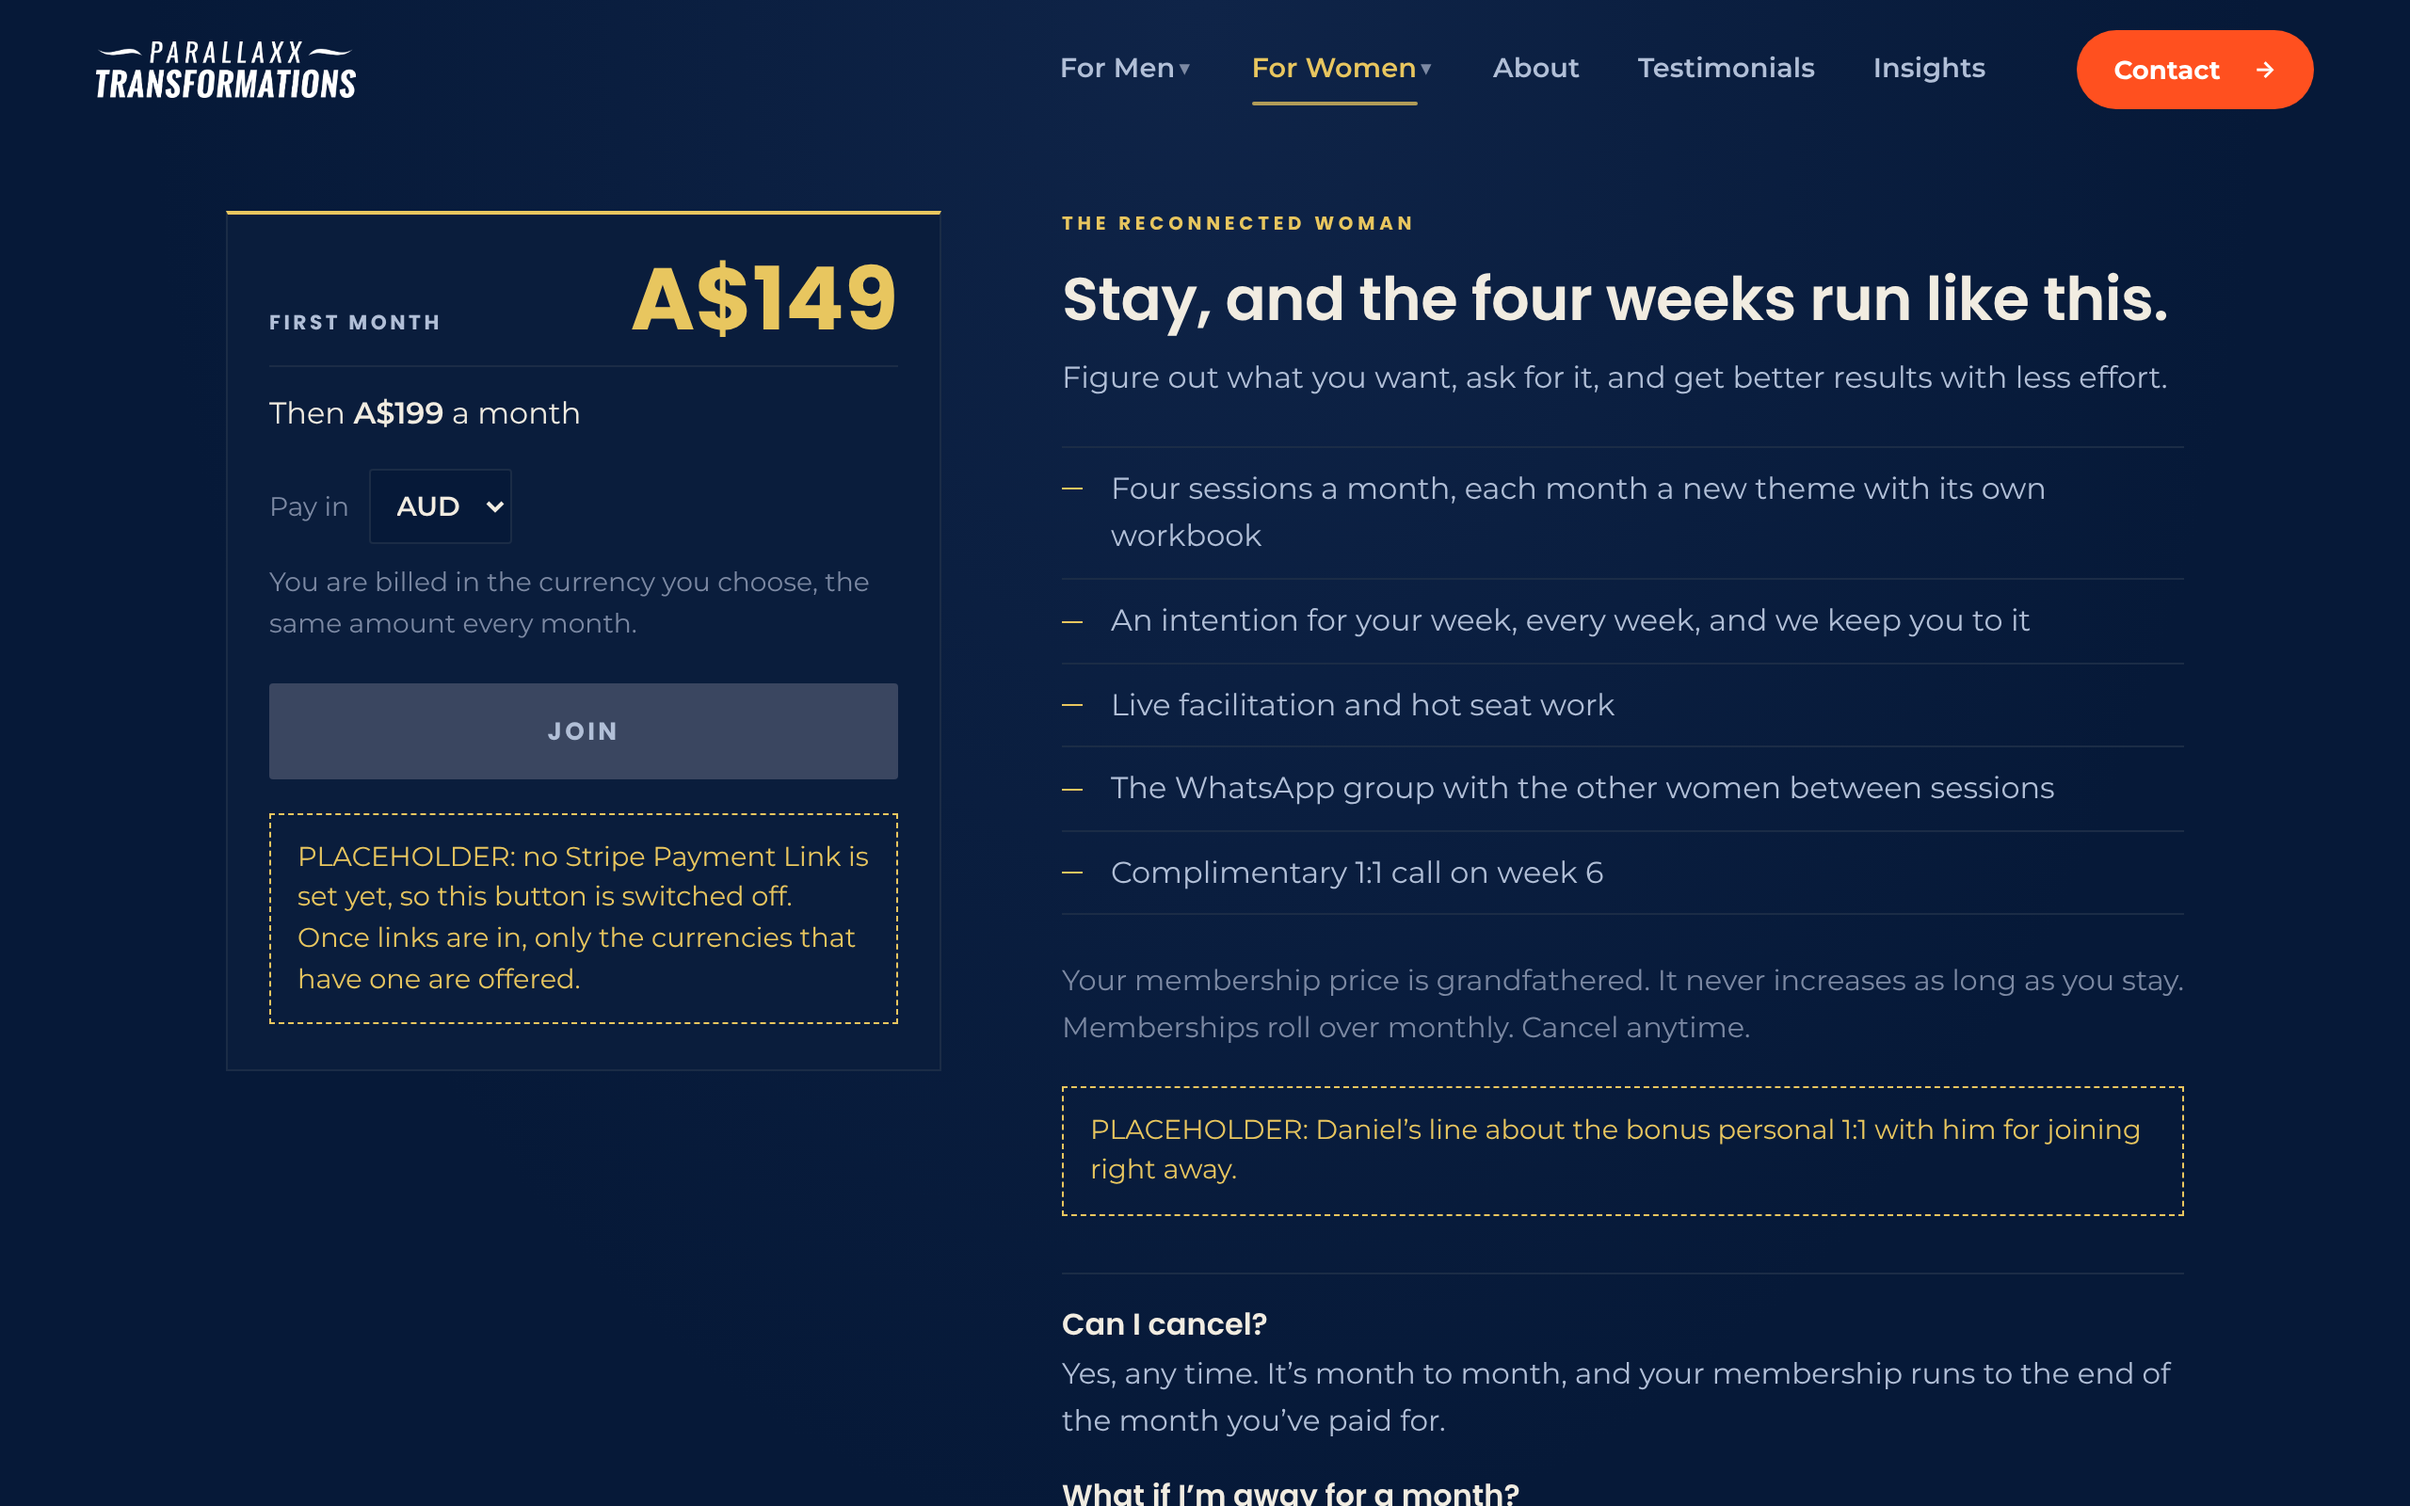
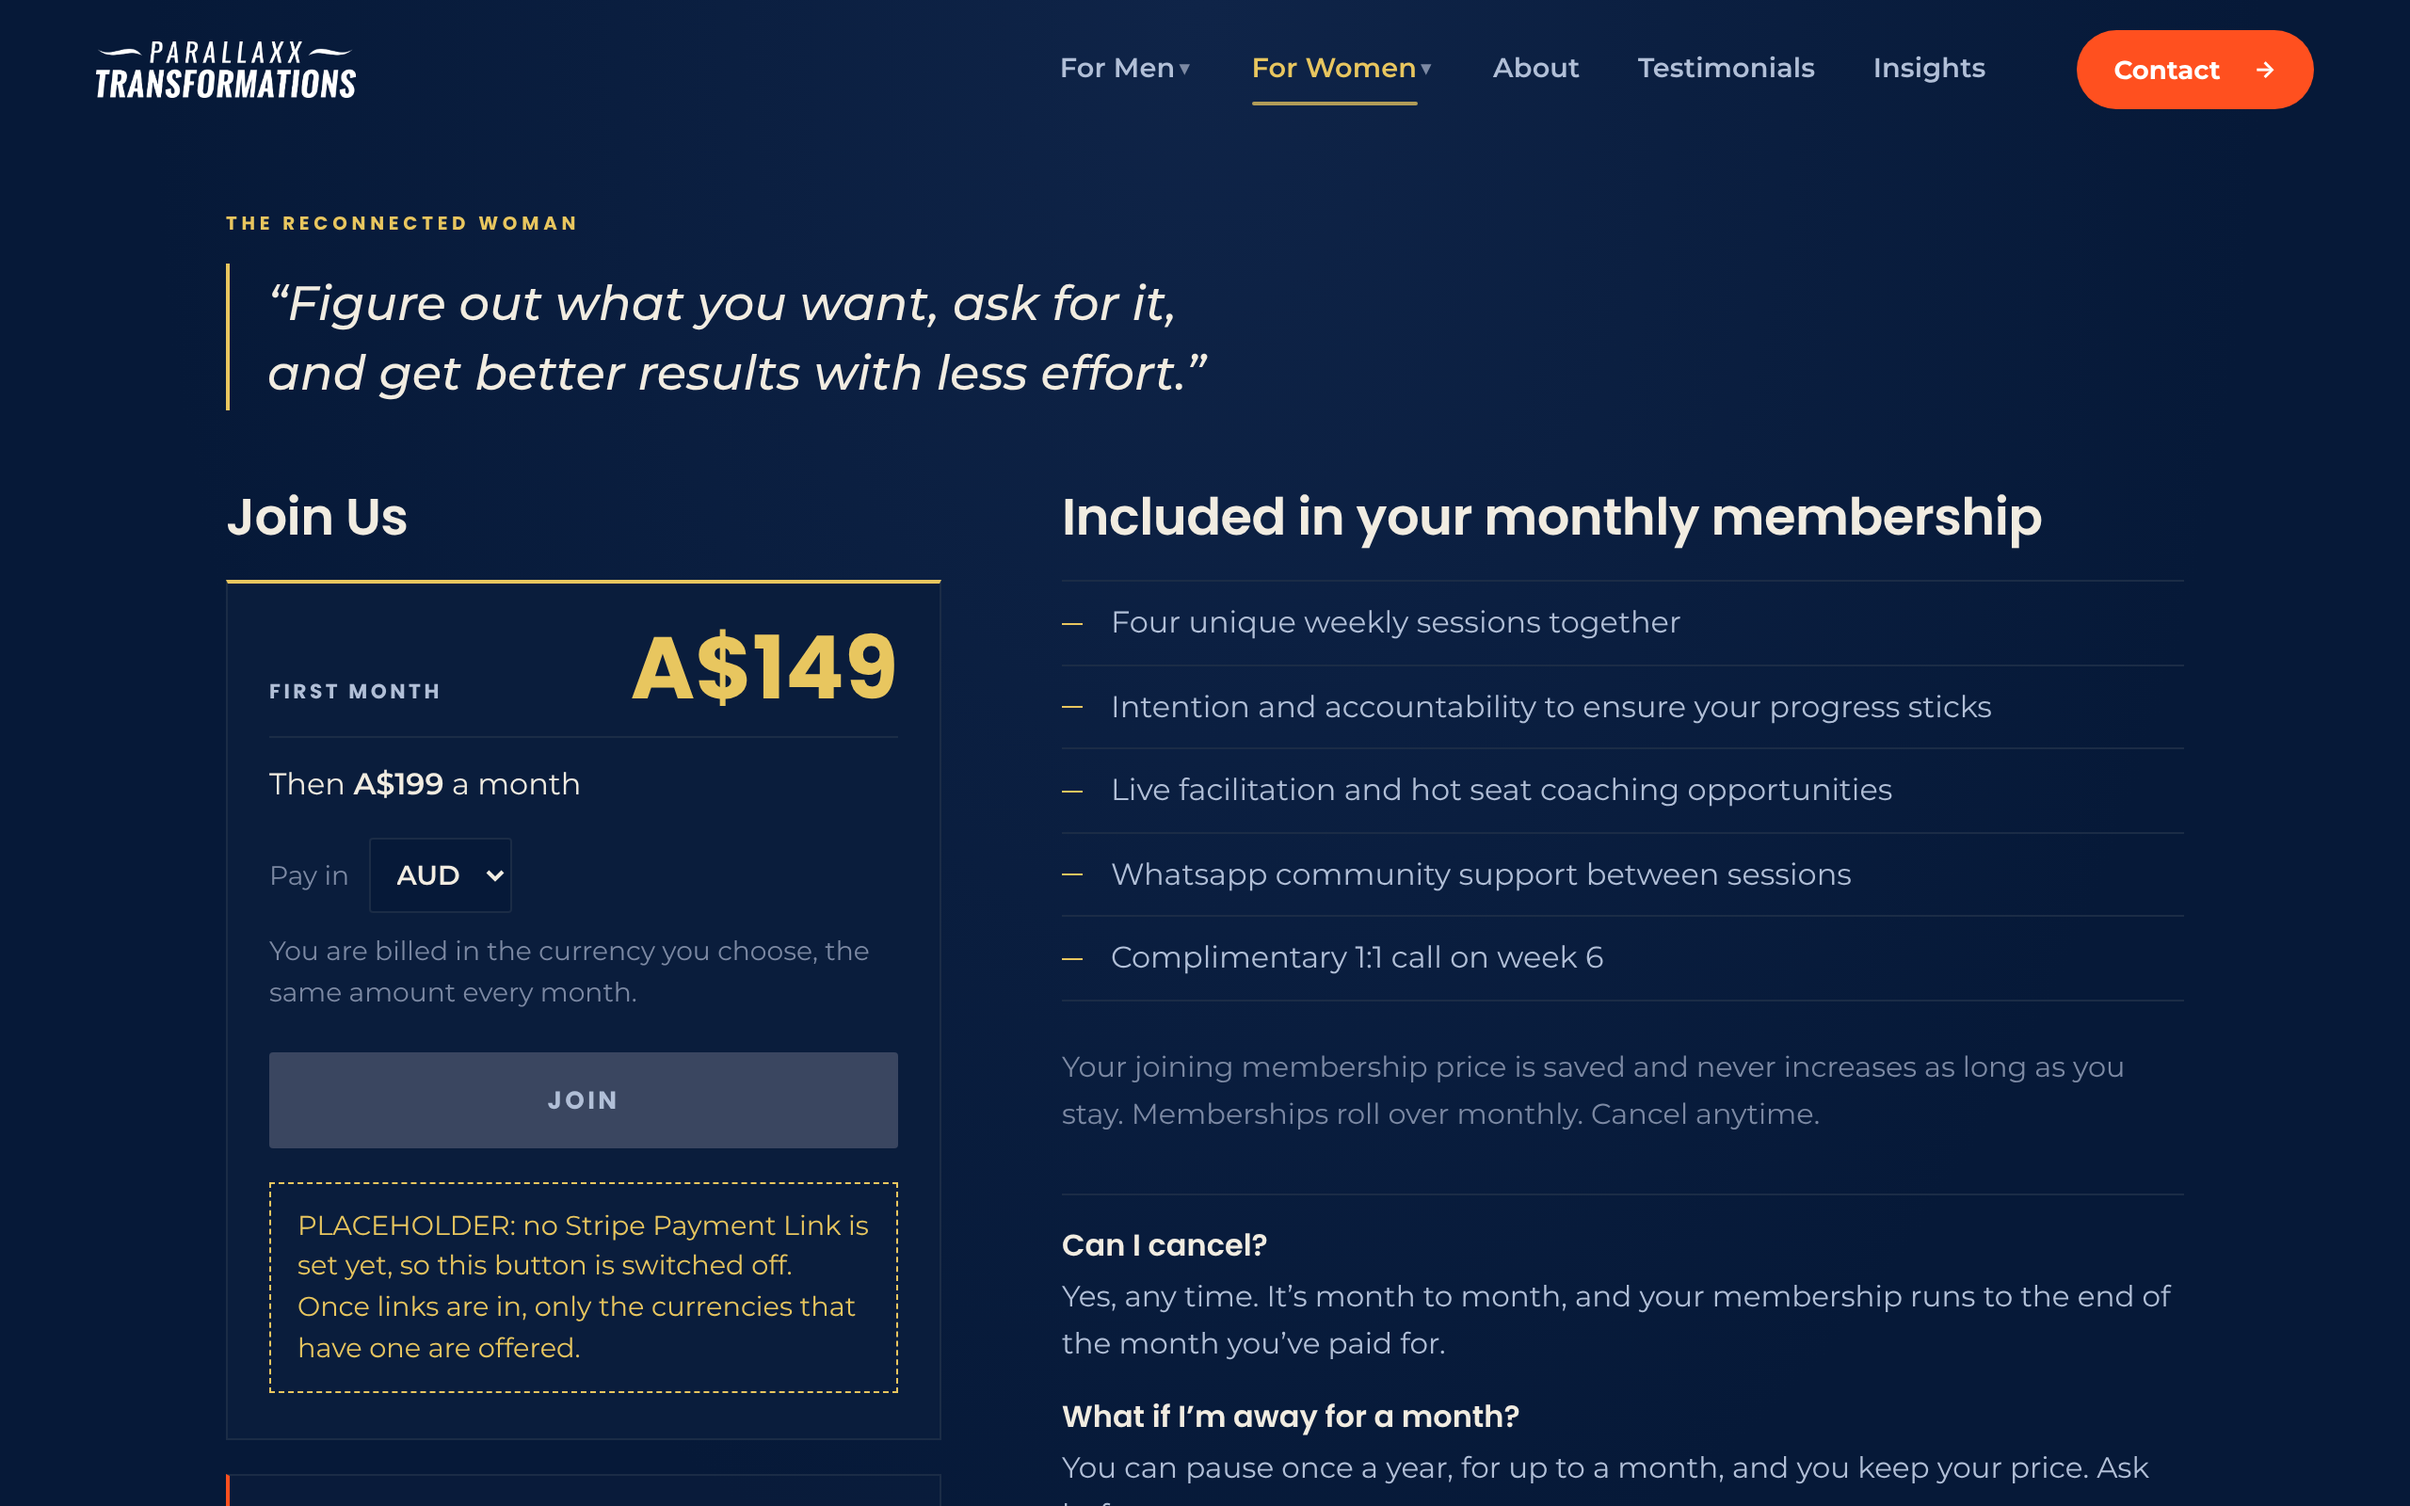
Join page: Daniel's wording and layout, 23 Nov, plus South African Rand
Quote across the top; 'Join Us' above the payment column; Action Taker Bonus
under it; 'Included in your monthly membership' with his five lines; his
terms sentence. ZAR added with a placeholder link. Not published.

Claude-Session: https://claude.ai/code/session_01CeCNG1XNZUuvNZJZtKDaWa

diff --git a/migration/rw_join.py b/migration/rw_join.py
@@ -32,37 +32,47 @@ PRICES = [
     ("NZD", "NZ$",       239,    179,  "PLACEHOLDER_STRIPE_LINK_NZD"),
     ("SGD", "S$",        175,    129,  "PLACEHOLDER_STRIPE_LINK_SGD"),
     ("CHF", "CHF ",      109,     85,  "PLACEHOLDER_STRIPE_LINK_CHF"),
+    ("ZAR", "R",        2299,   1699,  "PLACEHOLDER_STRIPE_LINK_ZAR"),
 ]
 
 # Which currency a browser's country gets by default. Anywhere not listed,
 # and any currency whose link is not set yet, gets EUR.
 COUNTRY_CURRENCY = {
     "AU": "AUD", "US": "USD", "GB": "GBP", "CA": "CAD",
-    "NZ": "NZD", "SG": "SGD", "CH": "CHF", "LI": "CHF",
+    "NZ": "NZD", "SG": "SGD", "CH": "CHF", "LI": "CHF", "ZA": "ZAR",
 }
 
 # ── WORDING ─────────────────────────────────────────────────────────────
-# Everything in WORDS is Daniel's, lifted word for word from the Reconnected
-# Woman page (reconnected-woman-v10-preview.html). Anything he has not
-# written is in PLACEHOLDERS, shown on the page inside a dashed box, and the
-# live site refuses to build while one is left. Set a placeholder to "" to
-# drop that line from the page.
+# All of it is Daniel's, as he gave it on 23 Nov 2026 (the quote and the two
+# questions are from the Reconnected Woman page). Two spellings were his
+# typing put right, and he can reverse either: "monthly membership" (he typed
+# "month membership") and "accountability" (he typed "accountably").
+#
+# Anything he has NOT written goes in PLACEHOLDERS, is shown on the page in a
+# dashed box, and stops the live site building while it is left. There are
+# none at the moment.
 WORDS = dict(
     eyebrow="The Reconnected Woman",
-    heading="Stay, and the four weeks run like this.",
-    lede="Figure out what you want, ask for it, and get better results with less effort.",
+    # Across the top, above both columns, set as a quotation: the reminder of
+    # why she is joining.
+    quote="Figure out what you want, ask for it, and get better results with less effort.",
+    # The page's one h1, above the payment column.
+    heading="Join Us",
+    included_heading="Included in your monthly membership",
     includes=[
-        "Four sessions a month, each month a new theme with its own workbook",
-        "An intention for your week, every week, and we keep you to it",
-        "Live facilitation and hot seat work",
-        "The WhatsApp group with the other women between sessions",
+        "Four unique weekly sessions together",
+        "Intention and accountability to ensure your progress sticks",
+        "Live facilitation and hot seat coaching opportunities",
+        "Whatsapp community support between sessions",
         "Complimentary 1:1 call on week 6",
     ],
-    # His sentence on the page opens "€119 a month, and your membership price
-    # is grandfathered." The amount is in the price block here, so it starts
-    # at "Your membership price".
-    terms="Your membership price is grandfathered. It never increases as long as you "
+    terms="Your joining membership price is saved and never increases as long as you "
           "stay. Memberships roll over monthly. Cancel anytime.",
+    # Under the payment column. Set bonus_heading to "" to drop the whole box.
+    bonus_heading="ACTION TAKER BONUS",
+    bonus="The first 3 registrations in will be gifted a personalised accelerator 1:1 "
+          "with Daniel designed to fast track your first month results. ACT NOW - "
+          "limited to 3 spots only.",
     faq=[
         ("Can I cancel?",
          "Yes, any time. It’s month to month, and your membership runs to the end of "
@@ -73,11 +83,7 @@ WORDS = dict(
     ],
 )
 
-PLACEHOLDERS = dict(
-    # The bonus for joining straight after the open session.
-    bonus="PLACEHOLDER: Daniel’s line about the bonus personal 1:1 with him for "
-          "joining right away.",
-)
+PLACEHOLDERS = dict()
 
 # Plain labels and the one line about Stripe. Not sales copy.
 LABEL_FIRST = "First month"
@@ -119,24 +125,32 @@ def _amount(written, n):
 
 
 CSS = """
-/* LAYOUT. On a phone it stacks: heading and its one line, the payment block,
-   then the details. From 900px it is two columns: payment on the LEFT (it
-   stays in view while the right side scrolls), everything else on the RIGHT. */
-.jn{width:100%;max-width:560px;text-align:left;display:grid;gap:26px;
+/* LAYOUT. Across the top, full width: the eyebrow and the quote. On a phone
+   everything then stacks: Join Us and the payment block, the bonus, then what
+   is included. From 900px it is two columns: payment and bonus on the LEFT
+   (they stay in view while the right side scrolls), the details on the RIGHT. */
+.jn{width:100%;max-width:560px;text-align:left;display:grid;gap:28px;
  grid-template-columns:minmax(0,1fr);grid-template-areas:"head" "pay" "det"}
 .jn-head{grid-area:head}.jn-pay{grid-area:pay}.jn-det{grid-area:det}
 @media(min-width:900px){
  main{align-items:flex-start}
- .jn{max-width:1040px;column-gap:clamp(36px,5vw,72px);row-gap:0;
-  grid-template-columns:minmax(0,380px) minmax(0,1fr);grid-template-areas:"pay head" "pay det"}
- .jn-pay{align-self:start;position:sticky;top:112px}
- .jn-det{margin-top:22px}
+ .jn{max-width:1040px;column-gap:clamp(36px,5vw,72px);row-gap:clamp(34px,5vh,52px);
+  grid-template-columns:minmax(0,380px) minmax(0,1fr);grid-template-areas:"head head" "pay det"}
+ .jn-pay{align-self:start;position:sticky;top:104px}
 }
-.jn .ey{margin:0 0 13px;font:800 .62rem/1.4 'Poppins',system-ui,sans-serif;letter-spacing:.24em;
+.jn .ey{margin:0 0 14px;font:800 .62rem/1.4 'Poppins',system-ui,sans-serif;letter-spacing:.24em;
  text-transform:uppercase;color:var(--gold)}
-.jn h1{margin:0 0 10px;font:600 clamp(1.5rem,5.4vw,2rem)/1.22 'Poppins',system-ui,sans-serif;
+.jn .quote{margin:0;padding:2px 0 2px 20px;border-left:2px solid var(--gold);
+ font:italic 500 clamp(1.15rem,4.6vw,1.6rem)/1.45 'Montserrat',system-ui,sans-serif;color:var(--cream);
+ text-wrap:balance;max-width:34em}
+.jn .quote:before{content:'\\201C'}.jn .quote:after{content:'\\201D'}
+.jn h1,.jn .h2{margin:0 0 16px;font:600 clamp(1.35rem,4.8vw,1.7rem)/1.25 'Poppins',system-ui,sans-serif;
  letter-spacing:-.01em;color:var(--cream);text-wrap:balance}
-.jn .lede{margin:0;color:var(--mist);font-size:1rem;line-height:1.68}
+.jn .bonus{margin:18px 0 0;padding:18px 22px 20px;border:1px solid var(--border);border-left:2px solid var(--coral);
+ background:rgba(10,29,60,.65)}
+.jn .bonus h2{margin:0 0 8px;font:800 .68rem/1.4 'Poppins',system-ui,sans-serif;letter-spacing:.2em;
+ text-transform:uppercase;color:var(--gold)}
+.jn .bonus p{margin:0;font-size:.95rem;line-height:1.6;color:var(--mist)}
 .jn .inc{list-style:none;margin:0;padding:0}
 .jn .inc li{position:relative;padding:9px 0 9px 26px;border-top:1px solid var(--border);
  font-size:1rem;color:var(--mist)}
@@ -207,11 +221,11 @@ def inner(e) -> str:
     inc = "".join(f"<li>{e(x)}</li>" for x in WORDS["includes"])
     opts = "".join(f'<option value="{e(r[0])}">{e(r[0])}</option>' for r in rows)
     faq = "".join(f"<h2>{e(q)}</h2><p>{e(a)}</p>" for q, a in WORDS["faq"])
-    bonus = PLACEHOLDERS.get("bonus", "")
     bonus_html = ""
-    if bonus:
-        cls = "ph" if "PLACEHOLDER" in bonus else "terms"
-        bonus_html = f'<p class="{cls}">{e(bonus)}</p>'
+    if WORDS.get("bonus_heading"):
+        bonus_html = (f'<div class="bonus"><h2>{e(WORDS["bonus_heading"])}</h2>'
+                      f'<p>{e(WORDS["bonus"])}</p></div>')
+    ph_html = "".join(f'<p class="ph">{e(v)}</p>' for v in PLACEHOLDERS.values() if v)
     if ready:
         btn = f'<a class="join" id="jn-join" href="{e(link0)}" rel="noopener">{e(BUTTON)}</a>'
         btn_note = ""
@@ -222,10 +236,10 @@ def inner(e) -> str:
     return f"""  <div class="jn">
     <div class="jn-head">
       <p class="ey">{e(WORDS['eyebrow'])}</p>
-      <h1>{e(WORDS['heading'])}</h1>
-      <p class="lede">{e(WORDS['lede'])}</p>
+      <blockquote class="quote">{e(WORDS['quote'])}</blockquote>
     </div>
     <div class="jn-pay">
+      <h1>{e(WORDS['heading'])}</h1>
       <div class="price">
         <div class="row"><span class="lab">{e(LABEL_FIRST)}</span><span class="first" id="jn-first">{e(_amount(written0, first0))}</span></div>
         <p class="then">{e(LABEL_THEN)} <b id="jn-month">{e(_amount(written0, month0))}</b> {e(LABEL_MONTH)}</p>
@@ -241,11 +255,13 @@ def inner(e) -> str:
           {btn_note}
         </div>
       </div>
+      {bonus_html}
     </div>
     <div class="jn-det">
+      <h2 class="h2">{e(WORDS['included_heading'])}</h2>
       <ul class="inc">{inc}</ul>
       <p class="terms">{e(WORDS['terms'])}</p>
-      {bonus_html}
+      {ph_html}
       <div class="faq">{faq}</div>
     </div>
   </div>"""
